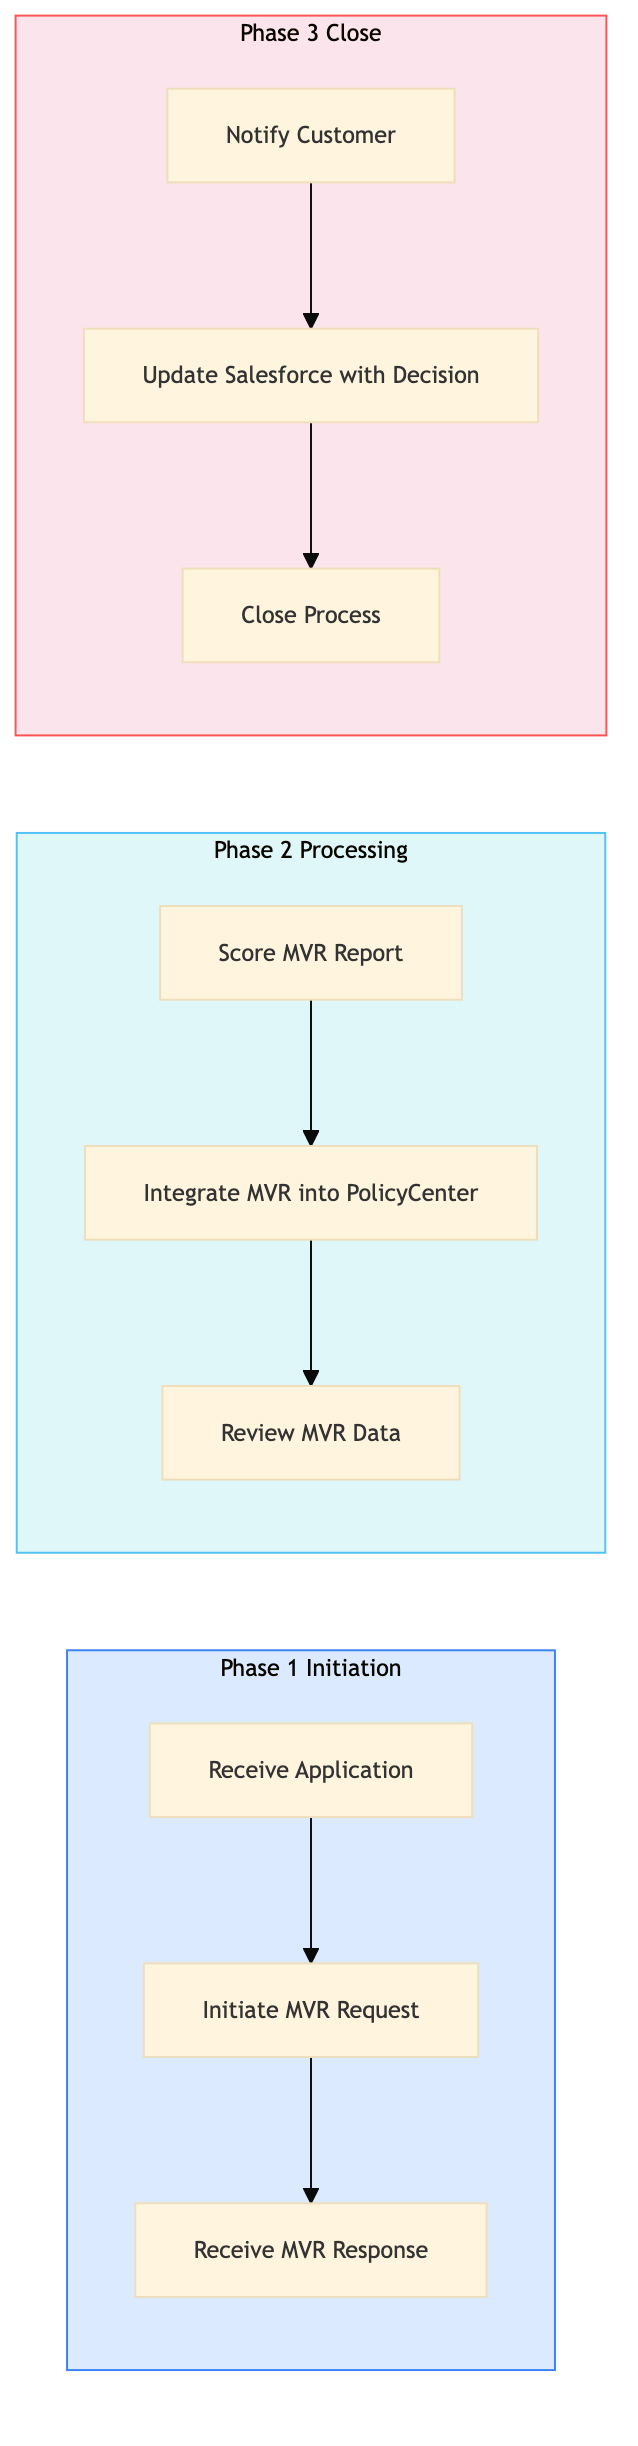
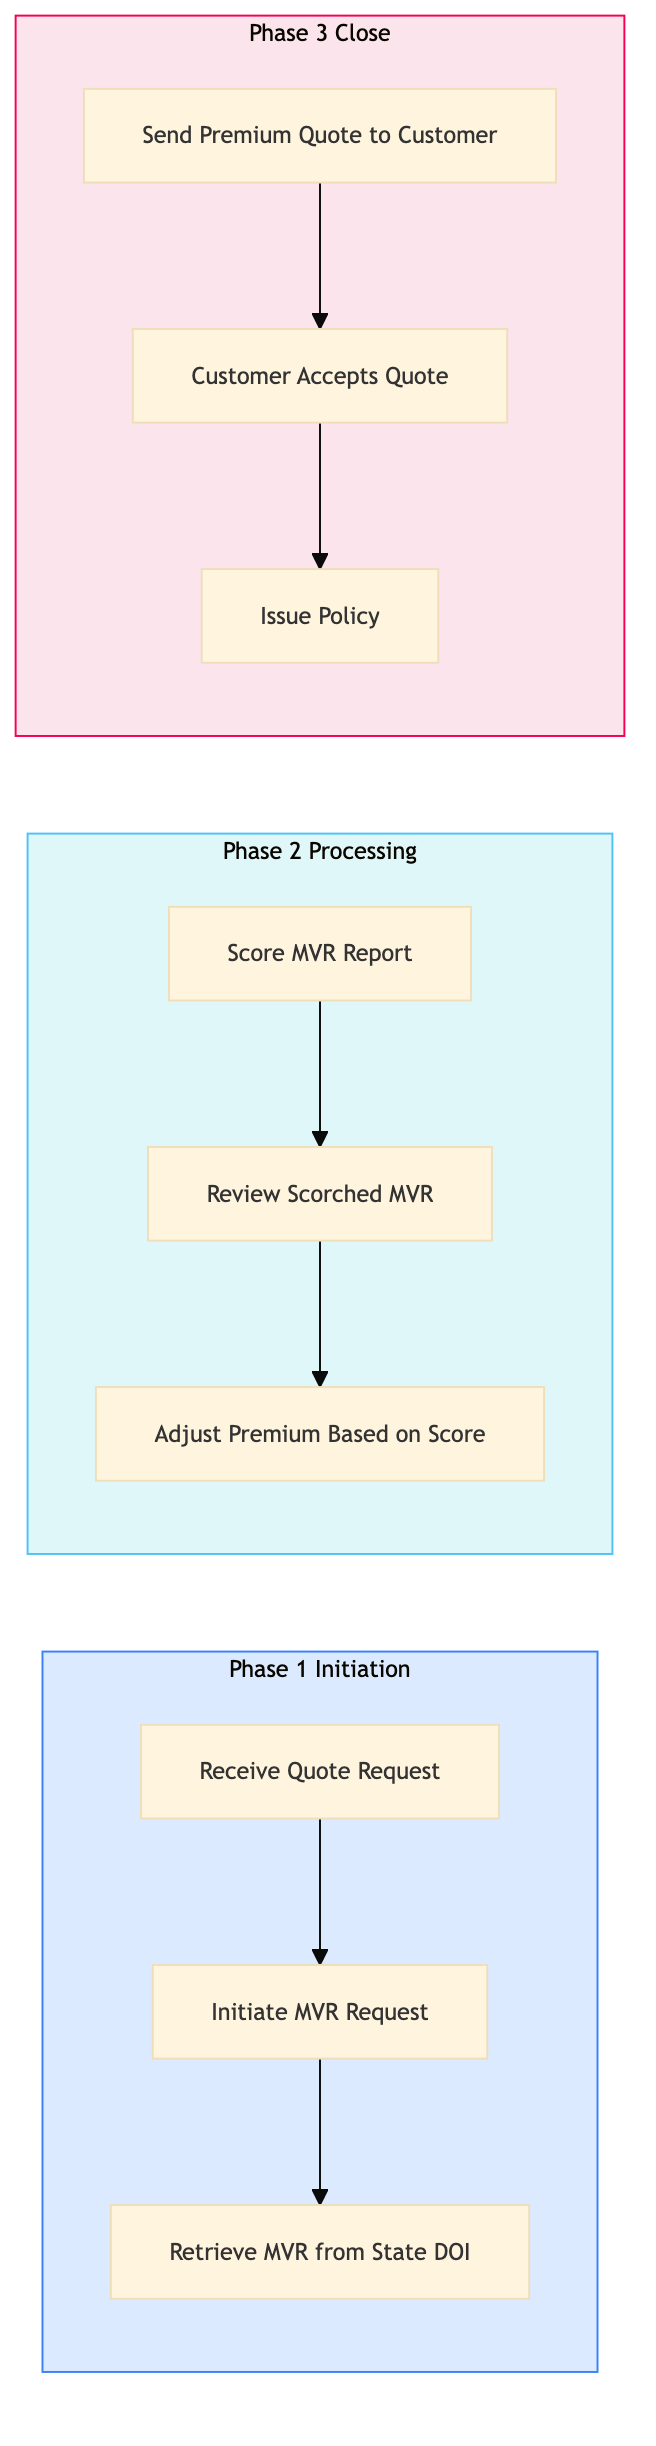
feat: add AAA-IN-QU-03 — MVR Pull and Scoring

diff --git a/aaa-insurance/insurance-quoting/aaa-in-qu-03.html b/aaa-insurance/insurance-quoting/aaa-in-qu-03.html
@@ -23,40 +23,16 @@
     <div class="nav-l2-group">
       <a class="nav-l2-title" href="../../shared-membership/membership-enrolment/index.html">Membership Enrolment & Sales</a>
       <div class="nav-l3-list">
-        <a class="nav-l3" href="../../shared-membership/membership-enrolment/shared-mb-en-01.html">SHARED-MB-EN-01 &mdash; New Member Walk-In Enrolment (Branch)</a>
-        <a class="nav-l3" href="../../shared-membership/membership-enrolment/shared-mb-en-02.html">SHARED-MB-EN-02 &mdash; Online Membership Self-Enrolment (Web/Ap</a>
-        <a class="nav-l3" href="../../shared-membership/membership-enrolment/shared-mb-en-03.html">SHARED-MB-EN-03 &mdash; Phone Enrolment via Contact Centre</a>
-        <a class="nav-l3" href="../../shared-membership/membership-enrolment/shared-mb-en-04.html">SHARED-MB-EN-04 &mdash; Affiliate and Employer Group Enrolment</a>
-        <a class="nav-l3" href="../../shared-membership/membership-enrolment/shared-mb-en-05.html">SHARED-MB-EN-05 &mdash; Membership Tier Selection and Upsell</a>
-        <a class="nav-l3" href="../../shared-membership/membership-enrolment/shared-mb-en-06.html">SHARED-MB-EN-06 &mdash; Payment Processing and First-Year Billin</a>
-        <a class="nav-l3" href="../../shared-membership/membership-enrolment/shared-mb-en-07.html">SHARED-MB-EN-07 &mdash; Welcome Kit and Digital Card Issuance</a>
-        <a class="nav-l3" href="../../shared-membership/membership-enrolment/shared-mb-en-08.html">SHARED-MB-EN-08 &mdash; Duplicate Member Detection and Merge</a>
       </div>
     </div>
     <div class="nav-l2-group">
       <a class="nav-l2-title" href="../../shared-membership/membership-renewal/index.html">Membership Renewal & Retention</a>
       <div class="nav-l3-list">
-        <a class="nav-l3" href="../../shared-membership/membership-renewal/shared-mb-rn-01.html">SHARED-MB-RN-01 &mdash; Annual Renewal Notice Generation and Dis</a>
-        <a class="nav-l3" href="../../shared-membership/membership-renewal/shared-mb-rn-02.html">SHARED-MB-RN-02 &mdash; Auto-Renewal Processing (Credit Card on </a>
-        <a class="nav-l3" href="../../shared-membership/membership-renewal/shared-mb-rn-03.html">SHARED-MB-RN-03 &mdash; Lapsed Member Reinstatement Campaign</a>
-        <a class="nav-l3" href="../../shared-membership/membership-renewal/shared-mb-rn-04.html">SHARED-MB-RN-04 &mdash; Membership Upgrade and Tier Change Proce</a>
-        <a class="nav-l3" href="../../shared-membership/membership-renewal/shared-mb-rn-05.html">SHARED-MB-RN-05 &mdash; Associate and Household Member Add-On Pr</a>
-        <a class="nav-l3" href="../../shared-membership/membership-renewal/shared-mb-rn-06.html">SHARED-MB-RN-06 &mdash; Cancellation Request Handling and Save O</a>
-        <a class="nav-l3" href="../../shared-membership/membership-renewal/shared-mb-rn-07.html">SHARED-MB-RN-07 &mdash; Renewal Rate Review and Pricing Update</a>
-        <a class="nav-l3" href="../../shared-membership/membership-renewal/shared-mb-rn-08.html">SHARED-MB-RN-08 &mdash; Membership Winback Campaign (12-36 Month</a>
       </div>
     </div>
     <div class="nav-l2-group">
       <a class="nav-l2-title" href="../../shared-membership/member-services/index.html">Member Services & Benefits</a>
       <div class="nav-l3-list">
-        <a class="nav-l3" href="../../shared-membership/member-services/shared-mb-sv-01.html">SHARED-MB-SV-01 &mdash; Member Discount Partner Redemption</a>
-        <a class="nav-l3" href="../../shared-membership/member-services/shared-mb-sv-02.html">SHARED-MB-SV-02 &mdash; Passport Photo Service Delivery (Branch)</a>
-        <a class="nav-l3" href="../../shared-membership/member-services/shared-mb-sv-03.html">SHARED-MB-SV-03 &mdash; International Driving Permit (IDP) Proce</a>
-        <a class="nav-l3" href="../../shared-membership/member-services/shared-mb-sv-04.html">SHARED-MB-SV-04 &mdash; Notary and Document Authentication Servi</a>
-        <a class="nav-l3" href="../../shared-membership/member-services/shared-mb-sv-05.html">SHARED-MB-SV-05 &mdash; Member Portal Profile and Preferences Ma</a>
-        <a class="nav-l3" href="../../shared-membership/member-services/shared-mb-sv-06.html">SHARED-MB-SV-06 &mdash; Lost and Stolen Membership Card Replacem</a>
-        <a class="nav-l3" href="../../shared-membership/member-services/shared-mb-sv-07.html">SHARED-MB-SV-07 &mdash; Member Data Privacy Request (CCPA and PI</a>
-        <a class="nav-l3" href="../../shared-membership/member-services/shared-mb-sv-08.html">SHARED-MB-SV-08 &mdash; Member Satisfaction Survey and NPS Track</a>
       </div>
     </div>
   </div>
@@ -280,7 +256,7 @@
           <span class="pid-badge org-badge-aaa">AAA</span>
           AAA-IN-QU-03 &mdash; MVR Pull and Scoring
         </h1>
-        <p>The MVR Pull and Scoring process is initiated when a customer applies for an insurance quote. The process involves pulling the Motor Vehicle Report (MVR) from state DOI systems, scoring it using Verisk, and integrating the data into the Guidewire PolicyCenter for underwriting decisions.</p>
+        <p>The MVR Pull and Scoring process involves retrieving a Motor Vehicle Report (MVR) for an applicant and scoring it to assess their driving history. This information is crucial for underwriting auto insurance policies.</p>
       </div>
 
       <!-- BPMN Diagram -->
@@ -306,10 +282,10 @@
             <tr><th>L1 Domain</th><td>AAA Insurance</td></tr>
             <tr><th>L2 Process</th><td>Quoting & Underwriting</td></tr>
             <tr><th>L3 Name</th><td>MVR Pull and Scoring</td></tr>
-            <tr><th>Trigger</th><td>Customer submits an insurance application</td></tr>
-            <tr><th>Outcome</th><td>Successful completion produces a scored MVR report integrated into the Guidewire PolicyCenter for underwriting analysis.</td></tr>
-            <tr><th>Org Notes</th><td>AAA Northeast uses state DOI systems directly, while CAA may use third-party aggregators. AAA leverages Verisk scoring more extensively than CAA.</td></tr>
-            <tr><th>Systems</th><td><span class="sys-tag salesforce">Salesforce</span> <span class="sys-tag sabre">Sabre GDS</span> <span class="sys-tag verisk">Verisk</span> <span class="sys-tag guidewire">Guidewire PolicyCenter</span></td></tr>
+            <tr><th>Trigger</th><td>Initiated by a Licensed Insurance Agent when a new quote request is received from a customer.</td></tr>
+            <tr><th>Outcome</th><td>Successful completion produces a scored MVR report that informs the underwriting decision, leading to an accurate premium calculation and policy issuance.</td></tr>
+            <tr><th>Org Notes</th><td>AAA Northeast may have specific state-specific requirements for MVR data retrieval and scoring compared to other regions. Additionally, the use of Verisk ISO rating in conjunction with Guidewire Cloud is unique to AAA operations.</td></tr>
+            <tr><th>Systems</th><td><span class="sys-tag salesforce">Salesforce (Einstein AI, Agentforce)</span> <span class="sys-tag guidewire">Guidewire PolicyCenter</span> <span class="sys-tag sabre">Sabre GDS</span> <span class="sys-tag verisk">Verisk ISO rating</span></td></tr>
           </table>
         </div>
       </div>
@@ -330,109 +306,109 @@
               <tbody>
         <tr>
           <td class="step-num">1.1</td>
-          <td>Receive Application</td>
+          <td>Receive Quote Request</td>
           <td>Licensed Insurance Agent</td>
-          <td><span class="sys-tag salesforce">Salesforce</span></td>
-          <td>Customer application form</td>
-          <td>Application data in Salesforce</td>
-          <td>Application receipt time < 5 minutes</td>
-          <td>Delays in application submission</td>
+          <td><span class="sys-tag salesforce">Salesforce (Einstein AI, Agentforce)</span></td>
+          <td>Customer quote request</td>
+          <td>Quote request details in Salesforce</td>
+          <td>Time to receive and log quote request < 5 minutes</td>
+          <td>Delays in logging quote requests can lead to customer dissatisfaction.</td>
           <td>N</td>
           <td><span class="exception-y">Y</span></td>
         </tr>
         <tr>
           <td class="step-num">1.2</td>
           <td>Initiate MVR Request</td>
-          <td>Claims Adjuster</td>
-          <td><span class="sys-tag sabre">Sabre GDS</span></td>
-          <td>Application data from Salesforce</td>
-          <td>MVR request sent to state DOI</td>
-          <td>MVR request time < 2 minutes</td>
-          <td>Inaccurate MVR data</td>
+          <td>Licensed Insurance Agent</td>
+          <td><span class="sys-tag guidewire">Guidewire PolicyCenter</span></td>
+          <td>Quote request details from Salesforce</td>
+          <td>MVR request initiated in Guidewire</td>
+          <td>Time to initiate MVR request < 2 minutes</td>
+          <td>Errors in initiating the MVR request can delay underwriting.</td>
           <td>N</td>
           <td><span class="exception-y">Y</span></td>
         </tr>
         <tr>
           <td class="step-num">1.3</td>
-          <td>Receive MVR Response</td>
-          <td>Claims Adjuster</td>
+          <td>Retrieve MVR from State DOI</td>
+          <td>MVR Specialist</td>
           <td><span class="sys-tag sabre">Sabre GDS</span></td>
-          <td>MVR request</td>
-          <td>MVR report from state DOI</td>
-          <td>MVR response time < 10 minutes</td>
-          <td>High MVR retrieval failure rate</td>
+          <td>MVR request details from Guidewire</td>
+          <td>MVR report from state Department of Insurance (DOI)</td>
+          <td>Time to receive MVR < 10 minutes</td>
+          <td>Inaccurate or delayed MVR data can impact underwriting decisions.</td>
           <td>N</td>
           <td><span class="exception-y">Y</span></td>
         </tr>
         <tr>
           <td class="step-num">2.1</td>
           <td>Score MVR Report</td>
-          <td>Data Analyst</td>
-          <td><span class="sys-tag verisk">Verisk</span></td>
-          <td>MVR report from state DOI</td>
-          <td>Scorred MVR data</td>
-          <td>MVR scoring accuracy > 95%</td>
-          <td>Inconsistent scoring results</td>
+          <td>Underwriter</td>
+          <td><span class="sys-tag verisk">Verisk ISO rating</span></td>
+          <td>MVR report from Sabre GDS</td>
+          <td>Scorched MVR report with risk score</td>
+          <td>Accuracy of MVR scoring > 95%</td>
+          <td>Incorrect MVR scoring can lead to improper premium pricing.</td>
           <td>N</td>
           <td><span class="exception-y">Y</span></td>
         </tr>
         <tr>
           <td class="step-num">2.2</td>
-          <td>Integrate MVR into PolicyCenter</td>
+          <td>Review Scorched MVR</td>
           <td>Underwriter</td>
           <td><span class="sys-tag guidewire">Guidewire PolicyCenter</span></td>
-          <td>Scorred MVR data</td>
-          <td>MVR data in Guidewire PolicyCenter</td>
-          <td>Integration time < 5 minutes</td>
-          <td>Data integration errors</td>
-          <td>N</td>
-          <td><span class="exception-y">Y</span></td>
-        </tr>
-        <tr>
-          <td class="step-num">2.3</td>
-          <td>Review MVR Data</td>
-          <td>Underwriter</td>
-          <td><span class="sys-tag guidewire">Guidewire PolicyCenter</span></td>
-          <td>MVR data in Guidewire PolicyCenter</td>
-          <td>Underwriting decision</td>
-          <td>Decision time < 15 minutes</td>
-          <td>Complex underwriting rules</td>
+          <td>Scorched MVR report from Verisk ISO rating</td>
+          <td>MVR review notes and decision</td>
+          <td>Time to review MVR < 5 minutes</td>
+          <td>No specific pain point noted.</td>
           <td><span class="decision-y">Y</span></td>
           <td>N</td>
         </tr>
         <tr>
+          <td class="step-num">2.3</td>
+          <td>Adjust Premium Based on Score</td>
+          <td>Underwriter</td>
+          <td><span class="sys-tag guidewire">Guidewire PolicyCenter</span></td>
+          <td>MVR review notes and decision</td>
+          <td>Adjusted premium quote</td>
+          <td>Time to adjust premium < 2 minutes</td>
+          <td>Errors in premium adjustment can lead to customer disputes.</td>
+          <td>N</td>
+          <td><span class="exception-y">Y</span></td>
+        </tr>
+        <tr>
           <td class="step-num">3.1</td>
-          <td>Notify Customer</td>
+          <td>Send Premium Quote to Customer</td>
           <td>Licensed Insurance Agent</td>
-          <td><span class="sys-tag salesforce">Salesforce</span></td>
-          <td>Underwriting decision</td>
-          <td>Notification to customer</td>
-          <td>Customer notification time < 2 minutes</td>
-          <td>Delayed customer communication</td>
+          <td><span class="sys-tag salesforce">Salesforce (Einstein AI, Agentforce)</span></td>
+          <td>Adjusted premium quote from Guidewire</td>
+          <td>Premium quote sent to customer via Salesforce</td>
+          <td>Time to send quote < 1 minute</td>
+          <td>Delays in sending quotes can lead to lost business.</td>
           <td>N</td>
           <td><span class="exception-y">Y</span></td>
         </tr>
         <tr>
           <td class="step-num">3.2</td>
-          <td>Update Salesforce with Decision</td>
-          <td>Licensed Insurance Agent</td>
-          <td><span class="sys-tag salesforce">Salesforce</span></td>
-          <td>Underwriting decision</td>
-          <td>Updated application status in Salesforce</td>
-          <td>Salesforce update time < 1 minute</td>
-          <td>Data synchronization issues</td>
+          <td>Customer Accepts Quote</td>
+          <td>Customer</td>
+          <td><span class="sys-tag salesforce">Salesforce (Einstein AI, Agentforce)</span></td>
+          <td>Premium quote sent to customer</td>
+          <td>Customer acceptance of quote</td>
+          <td>Quote acceptance rate > 80%</td>
+          <td>Low quote acceptance rates can impact sales.</td>
           <td>N</td>
           <td><span class="exception-y">Y</span></td>
         </tr>
         <tr>
           <td class="step-num">3.3</td>
-          <td>Close Process</td>
+          <td>Issue Policy</td>
           <td>Licensed Insurance Agent</td>
-          <td><span class="sys-tag salesforce">Salesforce</span></td>
-          <td>Updated application status in Salesforce</td>
-          <td>Process closure</td>
-          <td>Process closure time < 1 minute</td>
-          <td>Incomplete process documentation</td>
+          <td><span class="sys-tag guidewire">Guidewire PolicyCenter</span></td>
+          <td>Customer acceptance of quote</td>
+          <td>Issued insurance policy</td>
+          <td>Time to issue policy < 5 minutes</td>
+          <td>Delays in issuing policies can lead to customer dissatisfaction.</td>
           <td>N</td>
           <td><span class="exception-y">Y</span></td>
         </tr>
@@ -447,9 +423,9 @@
         <div class="card-header">&#x1F4CA; KPIs &amp; Risk Register</div>
         <div class="card-body">
           <p class="mb-8"><strong>KPIs</strong></p>
-          <div class="kpi-list mb-8"><span class="kpi-pill">Application receipt time < 5 minutes</span> <span class="kpi-pill">MVR request time < 2 minutes</span> <span class="kpi-pill">MVR response time < 10 minutes</span> <span class="kpi-pill">MVR scoring accuracy > 95%</span> <span class="kpi-pill">Integration time < 5 minutes</span> <span class="kpi-pill">Decision time < 15 minutes</span> <span class="kpi-pill">Customer notification time < 2 minutes</span> <span class="kpi-pill">Salesforce update time < 1 minute</span> <span class="kpi-pill">Process closure time < 1 minute</span></div>
+          <div class="kpi-list mb-8"><span class="kpi-pill">Time to receive and log quote request < 5 minutes</span> <span class="kpi-pill">Time to initiate MVR request < 2 minutes</span> <span class="kpi-pill">Time to receive MVR < 10 minutes</span> <span class="kpi-pill">Accuracy of MVR scoring > 95%</span> <span class="kpi-pill">Time to review MVR < 5 minutes</span> <span class="kpi-pill">Time to adjust premium < 2 minutes</span> <span class="kpi-pill">Time to send quote < 1 minute</span> <span class="kpi-pill">Quote acceptance rate > 80%</span> <span class="kpi-pill">Time to issue policy < 5 minutes</span></div>
           <p class="mb-8" style="margin-top:16px"><strong>Key Risks</strong></p>
-          <div class="kpi-list"><span class="risk-pill">Delays in application submission</span> <span class="risk-pill">Inaccurate MVR data</span> <span class="risk-pill">High MVR retrieval failure rate</span> <span class="risk-pill">Inconsistent scoring results</span> <span class="risk-pill">Data integration errors</span> <span class="risk-pill">Complex underwriting rules</span> <span class="risk-pill">Delayed customer communication</span> <span class="risk-pill">Data synchronization issues</span> <span class="risk-pill">Incomplete process documentation</span></div>
+          <div class="kpi-list"><span class="risk-pill">Delays in logging quote requests can lead to customer dissatisfaction.</span> <span class="risk-pill">Errors in initiating the MVR request can delay underwriting.</span> <span class="risk-pill">Inaccurate or delayed MVR data can impact underwriting decisions.</span> <span class="risk-pill">Incorrect MVR scoring can lead to improper premium pricing.</span> <span class="risk-pill">Errors in premium adjustment can lead to customer disputes.</span> <span class="risk-pill">Delays in sending quotes can lead to lost business.</span> <span class="risk-pill">Low quote acceptance rates can impact sales.</span> <span class="risk-pill">Delays in issuing policies can lead to customer dissatisfaction.</span></div>
         </div>
       </div>
 

diff --git a/aaa-insurance/insurance-quoting/index.html b/aaa-insurance/insurance-quoting/index.html
@@ -42,6 +42,7 @@
       <a class="nav-l2-title" href="../../aaa-insurance/insurance-quoting/index.html">Quoting & Underwriting</a>
       <div class="nav-l3-list">
         <a class="nav-l3" href="../../aaa-insurance/insurance-quoting/aaa-in-qu-01.html">AAA-IN-QU-01 &mdash; Auto Insurance Quote Initiation (Web and</a>
+        <a class="nav-l3" href="../../aaa-insurance/insurance-quoting/aaa-in-qu-02.html">AAA-IN-QU-02 &mdash; Driver and Vehicle Information Capture</a>
       </div>
     </div>
     <div class="nav-l2-group">
@@ -248,7 +249,7 @@
           <a href="../index.html">AAA Insurance</a>
         </div>
         <h1>🛡 Quoting & Underwriting</h1>
-        <p>1 of 10 processes complete</p>
+        <p>2 of 10 processes complete</p>
       </div>
       <div class="card">
         <div class="card-header">Process List</div>
@@ -256,7 +257,7 @@
           <table class="l4-table" style="min-width:500px">
             <thead><tr><th>PID</th><th>L3 Process Name</th><th>Status</th></tr></thead>
             <tbody><tr><td><a href="aaa-in-qu-01.html">AAA-IN-QU-01</a></td><td>Auto Insurance Quote Initiation (Web and Agent and Phone)</td><td><span style="color:#16a34a;font-weight:700">&#x2705; Complete</span></td></tr>
-<tr><td>AAA-IN-QU-02</td><td>Driver and Vehicle Information Capture</td><td><span style="color:#94a3b8">&#x23F3; Queued</span></td></tr>
+<tr><td><a href="aaa-in-qu-02.html">AAA-IN-QU-02</a></td><td>Driver and Vehicle Information Capture</td><td><span style="color:#16a34a;font-weight:700">&#x2705; Complete</span></td></tr>
 <tr><td>AAA-IN-QU-03</td><td>MVR Pull and Scoring</td><td><span style="color:#94a3b8">&#x23F3; Queued</span></td></tr>
 <tr><td>AAA-IN-QU-04</td><td>Credit Score Pull and Rating Tier Assignment</td><td><span style="color:#94a3b8">&#x23F3; Queued</span></td></tr>
 <tr><td>AAA-IN-QU-05</td><td>ISO Rating Engine Calculation</td><td><span style="color:#94a3b8">&#x23F3; Queued</span></td></tr>

diff --git a/index.html b/index.html
@@ -42,6 +42,7 @@
       <a class="nav-l2-title" href="aaa-insurance/insurance-quoting/index.html">Quoting & Underwriting</a>
       <div class="nav-l3-list">
         <a class="nav-l3" href="aaa-insurance/insurance-quoting/aaa-in-qu-01.html">AAA-IN-QU-01 &mdash; Auto Insurance Quote Initiation (Web and</a>
+        <a class="nav-l3" href="aaa-insurance/insurance-quoting/aaa-in-qu-02.html">AAA-IN-QU-02 &mdash; Driver and Vehicle Information Capture</a>
       </div>
     </div>
     <div class="nav-l2-group">
@@ -248,9 +249,9 @@
       </div>
 
       <div class="stats-bar">
-        <div class="stat-card"><div class="stat-num">1</div><div class="stat-label">Processes Complete</div></div>
+        <div class="stat-card"><div class="stat-num">2</div><div class="stat-label">Processes Complete</div></div>
         <div class="stat-card"><div class="stat-num">268</div><div class="stat-label">Total Processes</div></div>
-        <div class="stat-card"><div class="stat-num">1</div><div class="stat-label">AAA Complete</div></div>
+        <div class="stat-card"><div class="stat-num">2</div><div class="stat-label">AAA Complete</div></div>
         <div class="stat-card"><div class="stat-num caa-red">0</div><div class="stat-label">CAA Complete</div></div>
         <div class="stat-card"><div class="stat-num">0</div><div class="stat-label">Shared Complete</div></div>
       </div>
@@ -270,7 +271,7 @@
         <span class="nav-org-dot aaa" style="display:inline-block;margin-right:4px"></span>
         AAA
       </p>
-      <p class="card-count">1 / 34 processes complete</p>
+      <p class="card-count">2 / 34 processes complete</p>
     </div>
     <div class="domain-card org-caa">
       <h3><a href="caa-insurance/index.html">🍁 CAA Insurance (Ontario)</a></h3>

diff --git a/aaa-insurance/index.html b/aaa-insurance/index.html
@@ -42,6 +42,7 @@
       <a class="nav-l2-title" href="../aaa-insurance/insurance-quoting/index.html">Quoting & Underwriting</a>
       <div class="nav-l3-list">
         <a class="nav-l3" href="../aaa-insurance/insurance-quoting/aaa-in-qu-01.html">AAA-IN-QU-01 &mdash; Auto Insurance Quote Initiation (Web and</a>
+        <a class="nav-l3" href="../aaa-insurance/insurance-quoting/aaa-in-qu-02.html">AAA-IN-QU-02 &mdash; Driver and Vehicle Information Capture</a>
       </div>
     </div>
     <div class="nav-l2-group">
@@ -245,11 +246,11 @@
       <div class="page-header">
         <div class="breadcrumb"><a href="../index.html">Home</a></div>
         <h1>🛡 AAA Insurance</h1>
-        <p>1 of 34 processes complete across 4 process groups</p>
+        <p>2 of 34 processes complete across 4 process groups</p>
       </div>
       <div class="domain-grid">    <div class="domain-card org-aaa">
       <h3><a href="insurance-quoting/index.html">Quoting & Underwriting</a></h3>
-      <p class="card-meta">1/10 processes complete</p>
+      <p class="card-meta">2/10 processes complete</p>
     </div>
     <div class="domain-card org-aaa">
       <h3><a href="policy-administration/index.html">Policy Administration</a></h3>
